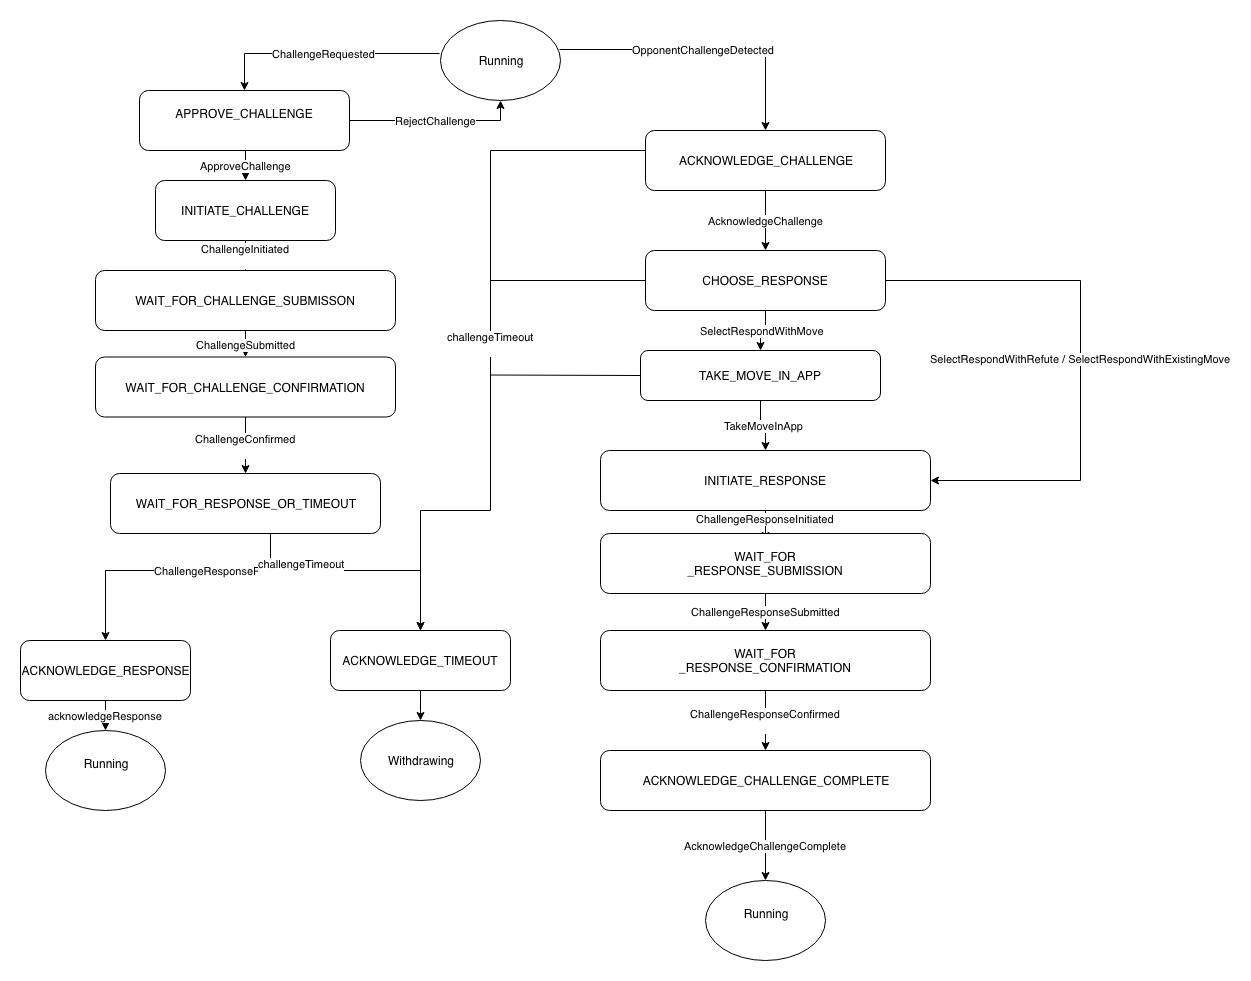
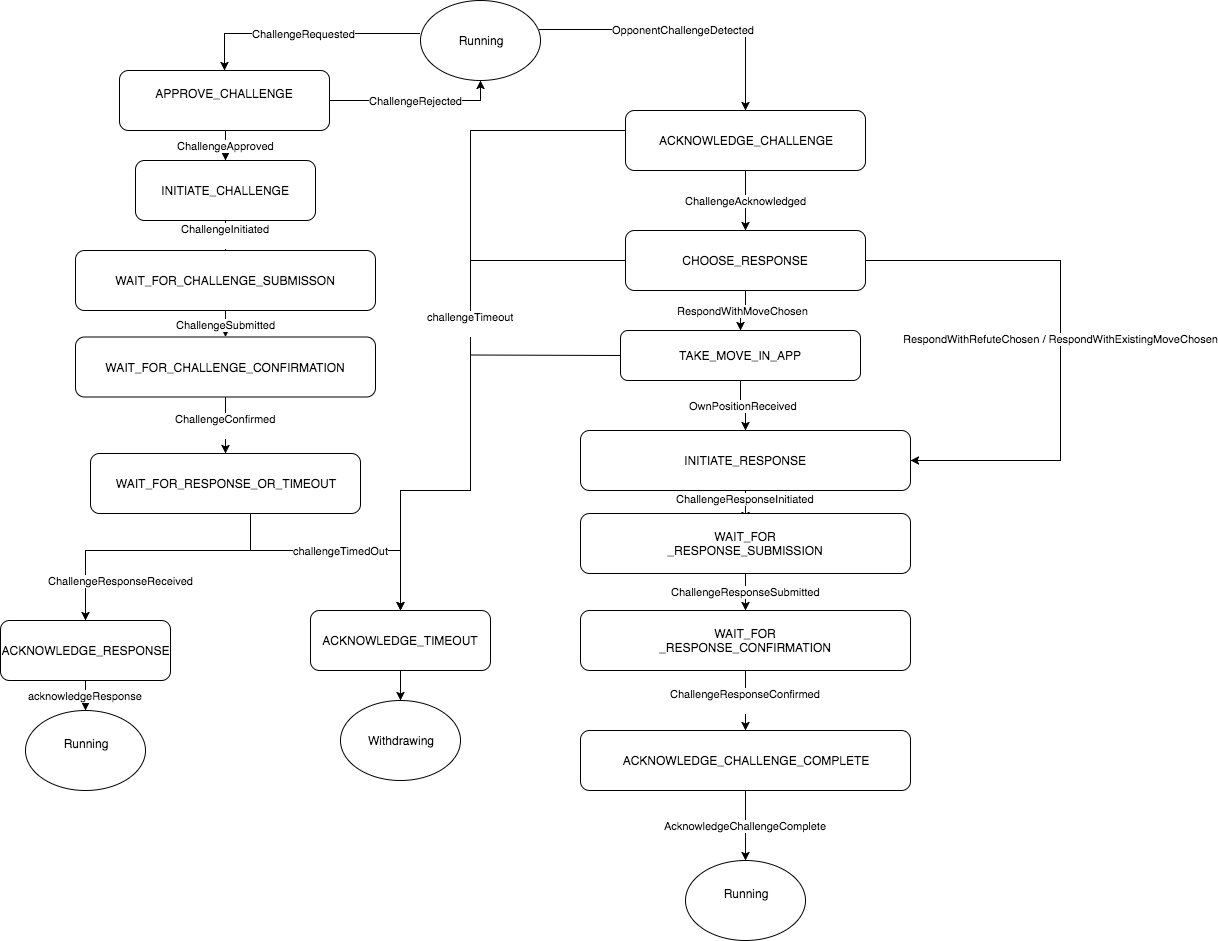
Make action names end in -ed

diff --git a/packages/rps-poc/src/wallet/redux/actions/index.ts b/packages/rps-poc/src/wallet/redux/actions/index.ts
@@ -95,17 +95,17 @@ export const postFundSetupReceived = (data: string, signature: string) => ({
 });
 export type PostFundSetupReceived = ReturnType<typeof postFundSetupReceived>;
 
-export const APPROVE_CHALLENGE = 'WALLET.APPROVE_CHALLENGE';
-export const approveChallenge = () => ({
-  type: APPROVE_CHALLENGE as typeof APPROVE_CHALLENGE,
+export const CHALLENGE_APPROVED = 'WALLET.CHALLENGE_APPROVED';
+export const challengeApproved = () => ({
+  type: CHALLENGE_APPROVED as typeof CHALLENGE_APPROVED,
 });
-export type ApproveChallenge = ReturnType<typeof approveChallenge>;
+export type ChallengeApproved = ReturnType<typeof challengeApproved>;
 
-export const DECLINE_CHALLENGE = 'WALLET.DECLINE_CHALLENGE';
-export const declineChallenge = () => ({
-  type: DECLINE_CHALLENGE as typeof DECLINE_CHALLENGE,
+export const CHALLENGE_REJECTED = 'WALLET.CHALLENGE_REJECTED';
+export const challengeRejected = () => ({
+  type: CHALLENGE_REJECTED as typeof CHALLENGE_REJECTED,
 });
-export type DeclineChallenge = ReturnType<typeof declineChallenge>;
+export type ChallengeRejected = ReturnType<typeof challengeRejected>;
 
 export const CHALLENGE_REQUESTED = 'WALLET.CHALLENGE_REQUESTED';
 export const challengeRequested = () => ({
@@ -127,61 +127,59 @@ export const challengeResponseReceived = (data: string) => ({
 });
 export type ChallengeResponseReceived = ReturnType<typeof challengeResponseReceived>;
 
-export const CHALLENGE_TIMEOUT = 'WALLET.CHALLENGE_TIMEOUT';
-export const challengeTimeout = () => ({
-  type: CHALLENGE_TIMEOUT as typeof CHALLENGE_TIMEOUT,
+export const CHALLENGE_TIMED_OUT = 'WALLET.CHALLENGE_TIMED_OUT';
+export const challengedTimedOut = () => ({
+  type: CHALLENGE_TIMED_OUT as typeof CHALLENGE_TIMED_OUT,
 });
-export type ChallengeTimeout = ReturnType<typeof challengeTimeout>;
+export type ChallengedTimedOut = ReturnType<typeof challengedTimedOut>;
 
-export const ACKNOWLEDGE_CHALLENGE_TIMEOUT = 'WALLET.ACKNOWLEDGE_CHALLENGE_TIMEOUT';
-export const acknowledgeChallengeTimeout = () => ({
-  type: ACKNOWLEDGE_CHALLENGE_TIMEOUT as typeof ACKNOWLEDGE_CHALLENGE_TIMEOUT,
+export const CHALLENGE_TIME_OUT_ACKNOWLEDGED = 'WALLET.CHALLENGE_TIME_OUT_ACKNOWLEDGED';
+export const challengedTimedOutAcknowledged = () => ({
+  type: CHALLENGE_TIME_OUT_ACKNOWLEDGED as typeof CHALLENGE_TIME_OUT_ACKNOWLEDGED,
 });
-export type AcknowledgeChallengeTimeout = ReturnType<typeof acknowledgeChallengeTimeout>;
+export type ChallengeTimeoutAcknowledged = ReturnType<typeof challengedTimedOutAcknowledged>;
 
-export const ACKNOWLEDGE_CHALLENGE_RESPONSE = 'WALLET.ACKNOWLEDGE_CHALLENGE_RESPONSE';
-export const acknowledgeChallengeResponse = () => ({
-  type: ACKNOWLEDGE_CHALLENGE_RESPONSE as typeof ACKNOWLEDGE_CHALLENGE_RESPONSE,
+export const CHALLENGE_RESPONSE_ACKNOWLEDGED = 'WALLET.CHALLENGE_RESPONSE_ACKNOWLEDGED';
+export const challengeResponseAcknowledged = () => ({
+  type: CHALLENGE_RESPONSE_ACKNOWLEDGED as typeof CHALLENGE_RESPONSE_ACKNOWLEDGED,
 });
-export type AcknowledgeChallengeResponse = ReturnType<typeof acknowledgeChallengeResponse>;
+export type ChallengeResponseAcknowledged = ReturnType<typeof challengeResponseAcknowledged>;
 
-export const ACKNOWLEDGE_CHALLENGE = 'WALLET.ACKNOWLEDGE_CHALLENGE';
-export const acknowledgeChallenge = () => ({
-  type: ACKNOWLEDGE_CHALLENGE as typeof ACKNOWLEDGE_CHALLENGE,
+export const CHALLENGE_ACKNOWLEDGED = 'WALLET.CHALLENGE_ACKNOWLEDGED';
+export const challengeAcknowledged = () => ({
+  type: CHALLENGE_ACKNOWLEDGED as typeof CHALLENGE_ACKNOWLEDGED,
 });
-export type AcknowledgeChallenge = ReturnType<typeof acknowledgeChallenge>;
+export type ChallengeAcknowledged = ReturnType<typeof challengeAcknowledged>;
 
-export const SELECT_RESPOND_WITH_EXISTING_MOVE = 'WALLET.SELECT_RESPOND_WITH_EXISTING_MOVE';
-export const selectRespondWithExistingMove = () => ({
-  type: SELECT_RESPOND_WITH_EXISTING_MOVE as typeof SELECT_RESPOND_WITH_EXISTING_MOVE,
+export const RESPOND_WITH_EXISTING_MOVE_CHOSEN = 'WALLET.RESPOND_WITH_EXISTING_MOVE_CHOSEN';
+export const respondWithExistingMoveChosen = () => ({
+  type: RESPOND_WITH_EXISTING_MOVE_CHOSEN as typeof RESPOND_WITH_EXISTING_MOVE_CHOSEN,
 });
-export type SelectRespondWithExistingMove = ReturnType<typeof selectRespondWithExistingMove>;
+export type RespondWithExistingMoveChosen = ReturnType<typeof respondWithExistingMoveChosen>;
 
-export const SELECT_RESPOND_WITH_MOVE = 'WALLET.SELECT_RESPOND_WITH_MOVE';
-export const selectRespondWithMove = () => ({
-  type: SELECT_RESPOND_WITH_MOVE as typeof SELECT_RESPOND_WITH_MOVE,
+export const RESPOND_WITH_MOVE_CHOSEN = 'WALLET.RESPOND_WITH_MOVE_CHOSEN';
+export const respondWithMoveChosen = () => ({
+  type: RESPOND_WITH_MOVE_CHOSEN as typeof RESPOND_WITH_MOVE_CHOSEN,
 });
-export type SelectRespondWithMove = ReturnType<typeof selectRespondWithMove>;
+export type RespondWithMoveChosen = ReturnType<typeof respondWithMoveChosen>;
 
-export const SELECT_RESPOND_WITH_REFUTE = 'WALLET.SELECT_RESPOND_WITH_REFUTE';
-export const selectRespondWithRefute = () => ({
-  type: SELECT_RESPOND_WITH_REFUTE as typeof SELECT_RESPOND_WITH_REFUTE,
+export const RESPOND_WITH_REFUTE_CHOSEN = 'WALLET.RESPOND_WITH_REFUTE_CHOSEN';
+export const respondWithRefuteChosen = () => ({
+  type: RESPOND_WITH_REFUTE_CHOSEN as typeof RESPOND_WITH_REFUTE_CHOSEN,
 });
-export type SelectRespondWithRefute = ReturnType<typeof selectRespondWithRefute>;
+export type RespondWithRefuteChosen = ReturnType<typeof respondWithRefuteChosen>;
 
-export const TAKE_MOVE_IN_APP = 'WALLET.TAKE_MOVE_IN_APP';
-export const takeMoveInApp = (position: string, signature: string) => ({
-  type: TAKE_MOVE_IN_APP as typeof TAKE_MOVE_IN_APP,
-  position,
-  signature,
+export const TAKE_MOVE_IN_APP_ACKNOWLEDGED = 'WALLET.TAKE_MOVE_IN_APP_ACKNOWLEDGED';
+export const takeMoveInAppAcknowledged = (position: string, signature: string) => ({
+  type: TAKE_MOVE_IN_APP_ACKNOWLEDGED as typeof TAKE_MOVE_IN_APP_ACKNOWLEDGED,
 });
-export type TakeMoveInApp = ReturnType<typeof takeMoveInApp>;
+export type TakeMoveInAppAcknowledged = ReturnType<typeof takeMoveInAppAcknowledged>;
 
-export const ACKNOWLEDGE_CHALLENGE_COMPLETE = 'WALLET.ACKNOWLEDGE_CHALLENGE_COMPLETE';
-export const acknowledgeChallengeComplete = () => ({
-  type: ACKNOWLEDGE_CHALLENGE_COMPLETE as typeof ACKNOWLEDGE_CHALLENGE_COMPLETE,
+export const CHALLENGE_COMPLETION_ACKNOWLEDGED = 'WALLET.CHALLENGE_COMPLETION_ACKNOWLEDGED';
+export const challengeCompletionAcknowledged = () => ({
+  type: CHALLENGE_COMPLETION_ACKNOWLEDGED as typeof CHALLENGE_COMPLETION_ACKNOWLEDGED,
 });
-export type AcknowledgeChallengeComplete = ReturnType<typeof acknowledgeChallengeComplete>;
+export type ChallengeCompletionAcknowledged = ReturnType<typeof challengeCompletionAcknowledged>;
 
 // Common Transaction Actions
 export const TRANSACTION_INITIATED = 'WALLET.TRANSACTION_INITIATED';
@@ -253,17 +251,17 @@ export type WalletAction = (
   | ChallengeRequested
   | OpponentChallengeDetected
   | ChallengeResponseReceived
-  | ChallengeTimeout
-  | TakeMoveInApp
-  | ApproveChallenge
-  | DeclineChallenge
-  | AcknowledgeChallengeResponse
-  | AcknowledgeChallengeTimeout
-  | AcknowledgeChallengeComplete
-  | AcknowledgeChallenge
-  | SelectRespondWithMove
-  | SelectRespondWithExistingMove
-  | SelectRespondWithRefute
+  | ChallengedTimedOut
+  | TakeMoveInAppAcknowledged
+  | ChallengeApproved
+  | ChallengeRejected
+  | ChallengeResponseAcknowledged
+  | ChallengeTimeoutAcknowledged
+  | ChallengeCompletionAcknowledged
+  | ChallengeAcknowledged
+  | RespondWithMoveChosen
+  | RespondWithExistingMoveChosen
+  | RespondWithRefuteChosen
   | WithdrawalRequested
   | WithdrawalApproved
   | WithdrawalRejected

diff --git a/packages/rps-poc/src/wallet/redux/reducers/__tests__/responding.test.ts b/packages/rps-poc/src/wallet/redux/reducers/__tests__/responding.test.ts
@@ -34,13 +34,13 @@ describe('when in ACKNOWLEDGE_CHALLENGE', () => {
   const state = states.acknowledgeChallenge(defaults);
 
   describe('when a challenge is acknowledged', () => {
-    const action = actions.acknowledgeChallenge();
+    const action = actions.challengeAcknowledged();
     const updatedState = walletReducer(state, action);
     itTransitionsToStateType(states.CHOOSE_RESPONSE, updatedState);
   });
 
   describe('when the challenge times out', () => {
-    const action = actions.challengeTimeout();
+    const action = actions.challengedTimedOut();
     const updatedState = walletReducer(state, action);
     itTransitionsToStateType(states.ACKNOWLEDGE_CHALLENGE_TIMEOUT, updatedState);
   });
@@ -50,19 +50,19 @@ describe('when in CHOOSE_RESPONSE', () => {
   const state = states.chooseResponse(defaults);
 
   describe('when respond with move is selected', () => {
-    const action = actions.selectRespondWithMove();
+    const action = actions.respondWithMoveChosen();
     const updatedState = walletReducer(state, action);
     itTransitionsToStateType(states.TAKE_MOVE_IN_APP, updatedState);
   });
 
   describe('when respond with refute is selected', () => {
-    const action = actions.selectRespondWithRefute();
+    const action = actions.respondWithRefuteChosen();
     const updatedState = walletReducer(state, action);
     itTransitionsToStateType(states.INITIATE_RESPONSE, updatedState);
   });
 
   describe('when the challenge times out', () => {
-    const action = actions.challengeTimeout();
+    const action = actions.challengedTimedOut();
     const updatedState = walletReducer(state, action);
     itTransitionsToStateType(states.ACKNOWLEDGE_CHALLENGE_TIMEOUT, updatedState);
   });
@@ -71,12 +71,12 @@ describe('when in CHOOSE_RESPONSE', () => {
 describe('when in TAKE_MOVE_IN_APP', () => {
   const state = states.takeMoveInApp(defaults);
   describe('when a move is taken in the application', () => {
-    const action = actions.takeMoveInApp(scenarios.standard.proposeHex, scenarios.standard.proposeSig);
+    const action = actions.takeMoveInAppAcknowledged(scenarios.standard.proposeHex, scenarios.standard.proposeSig);
     const updatedState = walletReducer(state, action);
     itTransitionsToStateType(states.INITIATE_RESPONSE, updatedState);
   });
   describe('when the challenge times out', () => {
-    const action = actions.challengeTimeout();
+    const action = actions.challengedTimedOut();
     const updatedState = walletReducer(state, action);
     itTransitionsToStateType(states.ACKNOWLEDGE_CHALLENGE_TIMEOUT, updatedState);
   });
@@ -116,7 +116,7 @@ describe('when in WAIT_FOR_RESPONSE_CONFIRMED', () => {
 describe('when in ACKNOWLEDGE_CHALLENGE_COMPLETE', () => {
   const state = states.acknowledgeChallengeComplete(defaults);
   describe('when the challenge is acknowledged as complete', () => {
-    const action = actions.acknowledgeChallengeComplete();
+    const action = actions.challengeCompletionAcknowledged();
     const updatedState = walletReducer(state, action);
     itTransitionsToStateType(states.WAIT_FOR_UPDATE, updatedState);
 

diff --git a/packages/rps-poc/src/wallet/redux/reducers/responding.ts b/packages/rps-poc/src/wallet/redux/reducers/responding.ts
@@ -30,9 +30,9 @@ export const respondingReducer = (state: RespondingState, action: WalletAction):
 
 export const acknowledgeChallengeReducer = (state: states.AcknowledgeChallenge, action: WalletAction): WalletState => {
   switch (action.type) {
-    case actions.ACKNOWLEDGE_CHALLENGE:
+    case actions.CHALLENGE_ACKNOWLEDGED:
       return states.chooseResponse(state);
-    case actions.CHALLENGE_TIMEOUT:
+    case actions.CHALLENGE_TIMED_OUT:
       return challengeStates.acknowledgeChallengeTimeout(state);
     default:
       return state;
@@ -41,11 +41,11 @@ export const acknowledgeChallengeReducer = (state: states.AcknowledgeChallenge, 
 
 export const chooseResponseReducer = (state: states.ChooseResponse, action: WalletAction): WalletState => {
   switch (action.type) {
-    case actions.SELECT_RESPOND_WITH_MOVE:
+    case actions.RESPOND_WITH_MOVE_CHOSEN:
       return states.takeMoveInApp(state);
-    case actions.SELECT_RESPOND_WITH_REFUTE:
+    case actions.RESPOND_WITH_REFUTE_CHOSEN:
       return states.initiateResponse(state);
-    case actions.CHALLENGE_TIMEOUT:
+    case actions.CHALLENGE_TIMED_OUT:
       return challengeStates.acknowledgeChallengeTimeout(state);
     default:
       return state;
@@ -54,9 +54,9 @@ export const chooseResponseReducer = (state: states.ChooseResponse, action: Wall
 
 export const takeMoveInAppReducer = (state: states.TakeMoveInApp, action: WalletAction): WalletState => {
   switch (action.type) {
-    case actions.TAKE_MOVE_IN_APP:
+    case actions.TAKE_MOVE_IN_APP_ACKNOWLEDGED:
       return states.initiateResponse(state);
-    case actions.CHALLENGE_TIMEOUT:
+    case actions.CHALLENGE_TIMED_OUT:
       return challengeStates.acknowledgeChallengeTimeout(state);
     default:
       return state;
@@ -92,7 +92,7 @@ export const waitForResponseConfirmationReducer = (state: states.WaitForResponse
 
 export const acknowledgeChallengeCompleteReducer = (state: states.AcknowledgeChallengeComplete, action: WalletAction): WalletState => {
   switch (action.type) {
-    case actions.ACKNOWLEDGE_CHALLENGE_COMPLETE:
+    case actions.CHALLENGE_COMPLETION_ACKNOWLEDGED:
       return runningStates.waitForUpdate(state);
     default:
       return state;

diff --git a/packages/rps-poc/src/wallet/redux/reducers/challenging.ts b/packages/rps-poc/src/wallet/redux/reducers/challenging.ts
@@ -32,11 +32,11 @@ export const challengingReducer = (state: states.ChallengingState, action: Walle
 
 const approveChallengeReducer = (state: states.ApproveChallenge, action: WalletAction): WalletState => {
   switch (action.type) {
-    case actions.APPROVE_CHALLENGE:
+    case actions.CHALLENGE_APPROVED:
       const signature = new Signature(signPositionHex(state.lastPosition, state.privateKey));
       const transaction = createForceMoveTransaction(state.adjudicator, state.penultimatePosition, state.lastPosition, signature);
       return states.waitForChallengeInitiation(transaction, state);
-    case actions.DECLINE_CHALLENGE:
+    case actions.CHALLENGE_REJECTED:
       return runningStates.waitForUpdate({ ...state });
     default:
       return state;
@@ -74,7 +74,7 @@ const waitForResponseOrTimeoutReducer = (state: states.WaitForResponseOrTimeout,
   switch (action.type) {
     case actions.CHALLENGE_RESPONSE_RECEIVED:
       return states.acknowledgeChallengeResponse({ ...state });
-    case actions.CHALLENGE_TIMEOUT:
+    case actions.CHALLENGE_TIMED_OUT:
       return states.acknowledgeChallengeTimeout({ ...state });
     default:
       return state;
@@ -83,7 +83,7 @@ const waitForResponseOrTimeoutReducer = (state: states.WaitForResponseOrTimeout,
 
 const acknowledgeChallengeResponseReducer = (state: states.AcknowledgeChallengeResponse, action: WalletAction): WalletState => {
   switch (action.type) {
-    case actions.ACKNOWLEDGE_CHALLENGE_RESPONSE:
+    case actions.CHALLENGE_RESPONSE_ACKNOWLEDGED:
       return runningStates.waitForUpdate({ ...state });
     default:
       return state;
@@ -92,7 +92,7 @@ const acknowledgeChallengeResponseReducer = (state: states.AcknowledgeChallengeR
 
 const acknowledgeChallengeTimeoutReducer = (state: states.AcknowledgeChallengeTimeout, action: WalletAction): WalletState => {
   switch (action.type) {
-    case actions.ACKNOWLEDGE_CHALLENGE_TIMEOUT:
+    case actions.CHALLENGE_TIME_OUT_ACKNOWLEDGED:
       return runningStates.waitForUpdate({ ...state });
     default:
       return state;

diff --git a/packages/rps-poc/src/wallet/redux/reducers/__tests__/challenging.test.ts b/packages/rps-poc/src/wallet/redux/reducers/__tests__/challenging.test.ts
@@ -41,14 +41,14 @@ const defaults = {
 describe('when in APPROVE_CHALLENGE', () => {
   const state = states.approveChallenge({ ...defaults });
   describe('when a challenge is approved', () => {
-    const action = actions.approveChallenge();
+    const action = actions.challengeApproved();
     const updatedState = walletReducer(state, action);
     itTransitionsToStateType(states.WAIT_FOR_CHALLENGE_INITIATION, updatedState);
     itSendsATransaction(updatedState);
   });
 
   describe('when a challenge is declined', () => {
-    const action = actions.declineChallenge();
+    const action = actions.challengeRejected();
     const updatedState = walletReducer(state, action);
     itTransitionsToStateType(states.WAIT_FOR_UPDATE, updatedState);
   });
@@ -101,7 +101,7 @@ describe('when in WAIT_FOR_RESPONSE_OR_TIMEOUT', () => {
   });
 
   describe('when the challenge times out', () => {
-    const action = actions.challengeTimeout();
+    const action = actions.challengedTimedOut();
     const updatedState = walletReducer(state, action);
 
     itTransitionsToStateType(states.ACKNOWLEDGE_CHALLENGE_TIMEOUT, updatedState);
@@ -110,7 +110,7 @@ describe('when in WAIT_FOR_RESPONSE_OR_TIMEOUT', () => {
 
 describe('when in ACKNOWLEDGE_RESPONSE', () => {
   const state = states.acknowledgeChallengeResponse({ ...defaults });
-  const action = actions.acknowledgeChallengeResponse();
+  const action = actions.challengeResponseAcknowledged();
   const updatedState = walletReducer(state, action);
 
   itTransitionsToStateType(states.WAIT_FOR_UPDATE, updatedState);
@@ -119,7 +119,7 @@ describe('when in ACKNOWLEDGE_RESPONSE', () => {
 
 describe('when in ACKNOWLEDGE_TIMEOUT', () => {
   const state = states.acknowledgeChallengeTimeout({ ...defaults });
-  const action = actions.acknowledgeChallengeTimeout();
+  const action = actions.challengedTimedOutAcknowledged();
   const updatedState = walletReducer(state, action);
 
   itTransitionsToStateType(states.WAIT_FOR_UPDATE, updatedState);
